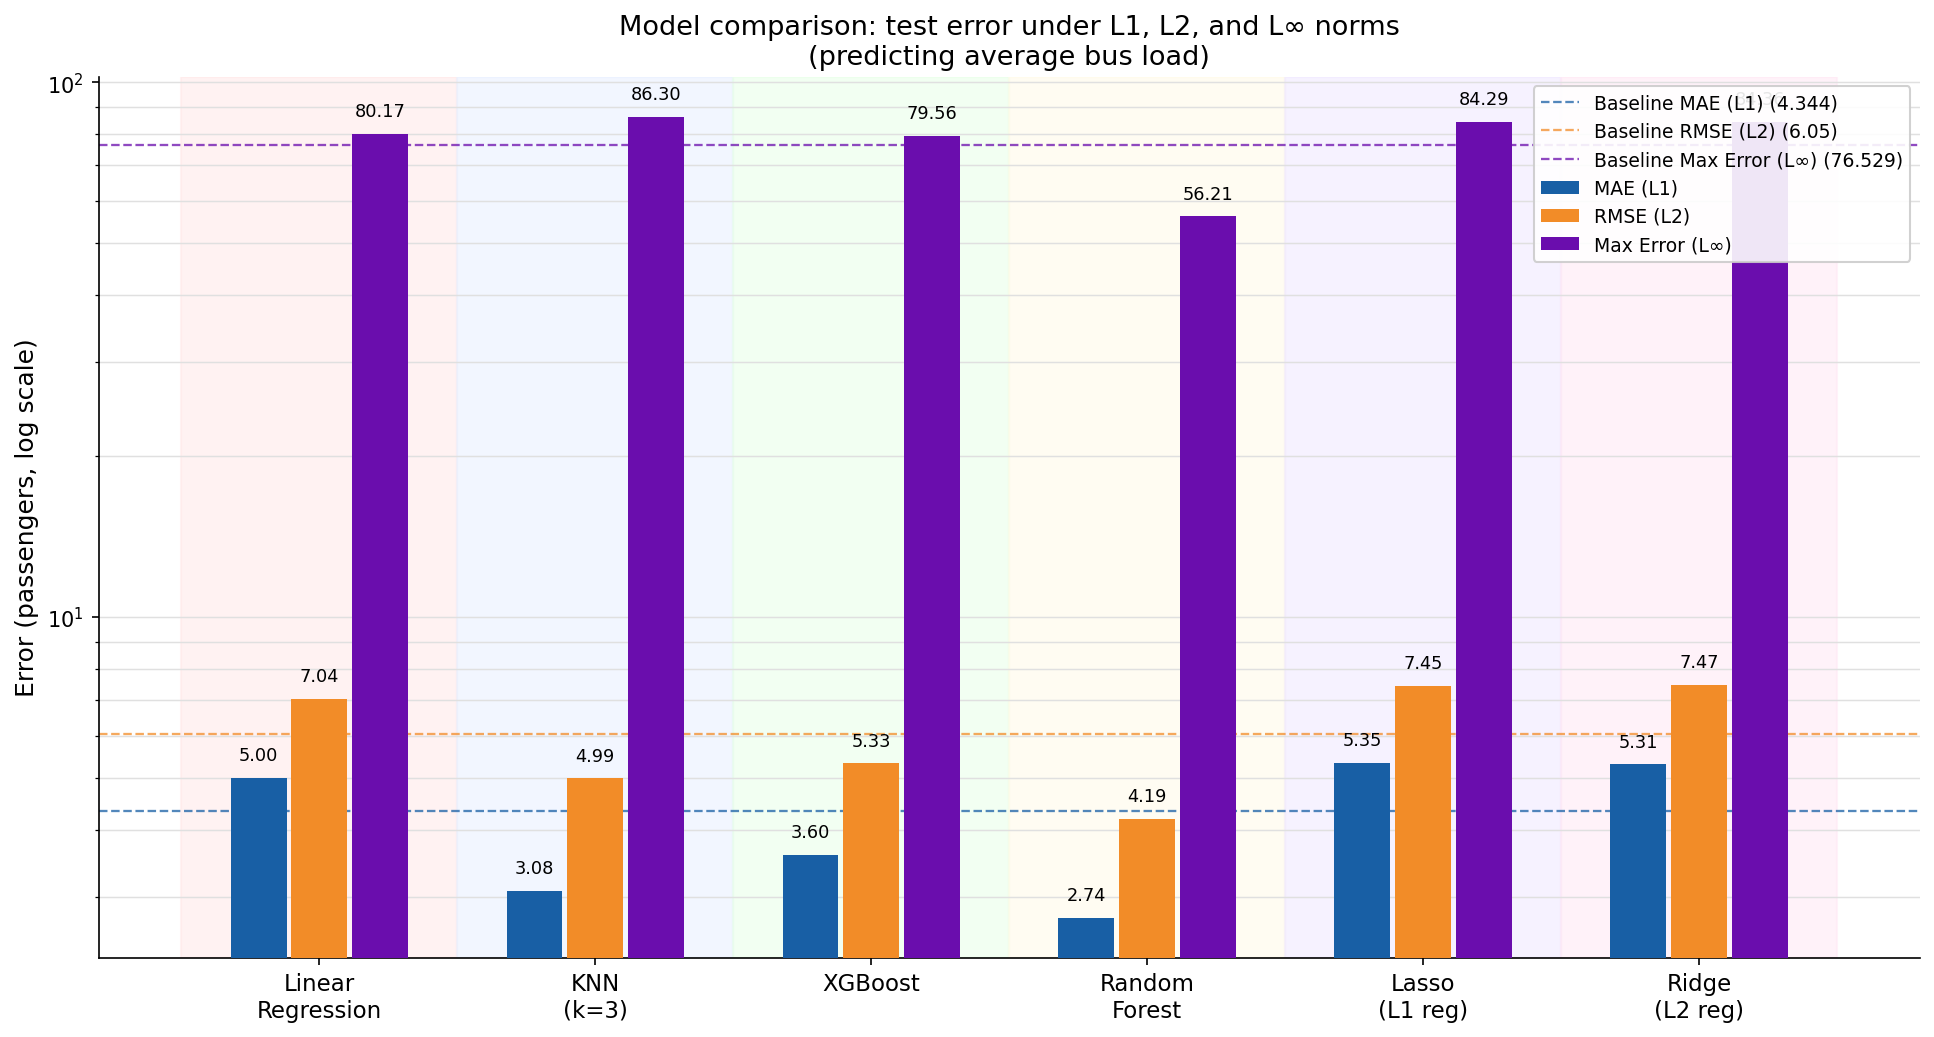
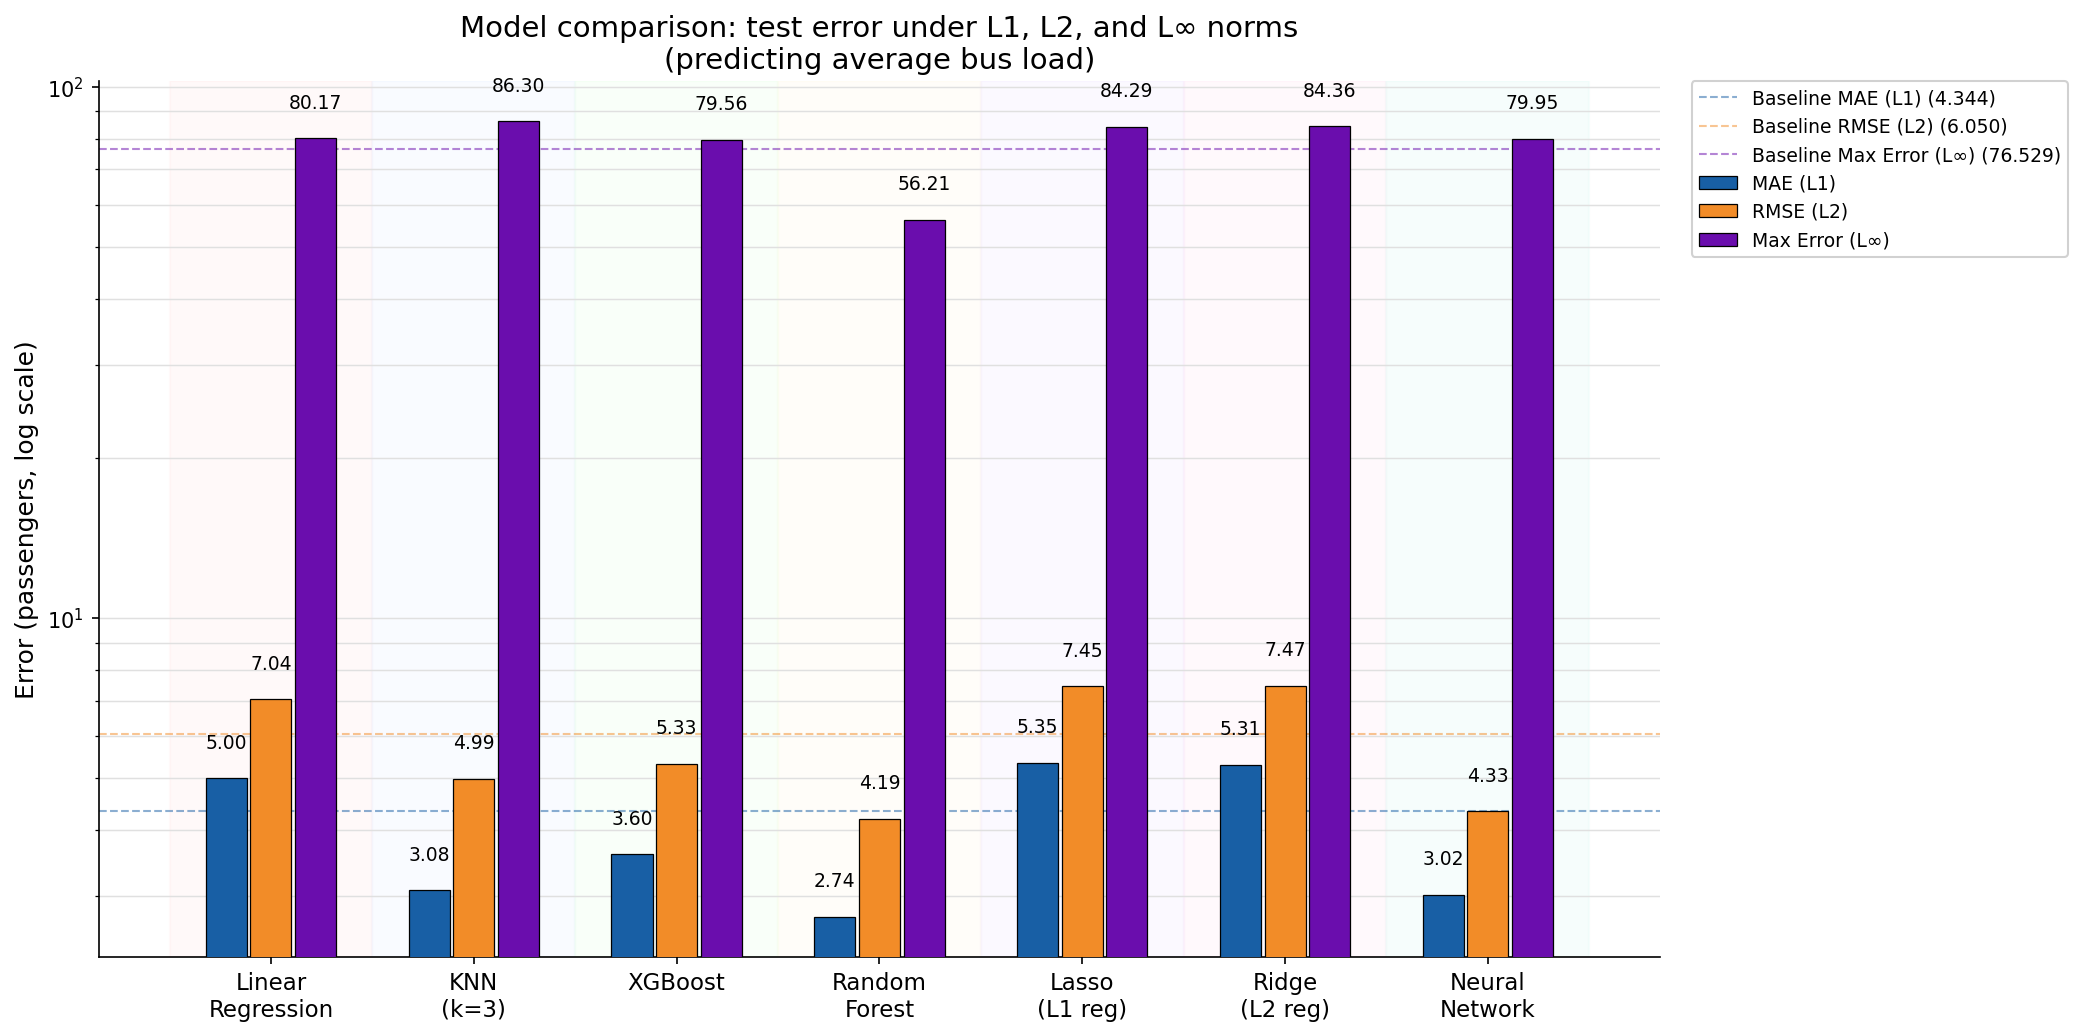
implement the neural network and update the model comparison diagram

diff --git a/src/model/neural_network.py b/src/model/neural_network.py
@@ -1,0 +1,183 @@
+import sqlite3
+import pandas as pd
+from pathlib import Path
+import numpy as np
+import matplotlib.pyplot as plt
+import tensorflow as tf
+from tensorflow import keras
+from sklearn.preprocessing import OneHotEncoder, StandardScaler
+from sklearn.compose import ColumnTransformer
+from sklearn.pipeline import make_pipeline
+from sklearn.metrics import mean_absolute_error, mean_squared_error
+
+def rmse(y_true, y_pred):
+    return np.sqrt(mean_squared_error(y_true, y_pred))
+
+project_root = Path(__file__).resolve().parent.parent.parent
+# print(project_root)
+db_path = project_root / "dataset" / "Ridership_v1.sqlite"
+# print(db_path)
+
+conn = sqlite3.connect(db_path)
+cursor = conn.cursor()
+cursor.execute("SELECT name FROM sqlite_master WHERE type='table';")
+print("Tables:", cursor.fetchall())
+
+df = pd.read_sql_query("SELECT * FROM MBTA_Ridership", conn)
+conn.close()
+
+print(f"Loaded {len(df)} rows")
+
+# Clean
+drop_cols = ["mode", "route_id", "route_variant", "day_type_id", "time_period_id", "ObjectId"]
+df = df.drop(columns=[c for c in drop_cols if c in df.columns])
+
+df = df.dropna(subset=["average_load"])
+df = df[df["average_offs"] >= 0]
+df["day_type_name"] = df["day_type_name"].astype(str).str.strip().str.title()
+
+# Keep season name (Spring/Fall/Summer/Winter) as a feature — more signal than year alone
+df["season_name"] = df["season"].str.extract(r"([A-Za-z]+)")[0].str.title()
+df["season_year"] = df["season"].str.extract(r"(\d{4})")[0]
+df = df.dropna(subset=["season_year", "season_name"])
+df["season_year"] = df["season_year"].astype(int)
+df = df.drop(columns=["season"])
+
+TIME_ORDER = [
+    "VERY_EARLY_MORNING", "EARLY_AM", "AM_PEAK", "MIDDAY_BASE",
+    "MIDDAY_SCHOOL", "PM_PEAK", "EVENING", "LATE_EVENING", "NIGHT", "OFF_PEAK"
+]
+time_map = {t: i for i, t in enumerate(TIME_ORDER)}
+df["time_period_encoded"] = df["time_period_name"].map(time_map)
+df = df.dropna(subset=["time_period_encoded"])
+df["time_period_encoded"] = df["time_period_encoded"].astype(int)
+
+print(f"Rows after cleaning: {len(df)}")
+
+TARGET = "average_load"
+FEATURES = [
+    "route_name", "stop_id", "stop_sequence", "direction_id",
+    "day_type_name", "time_period_encoded",
+    "season_name", "season_year", "num_trips",
+]
+
+train = df[df["season_year"] <= 2022]
+val   = df[df["season_year"] == 2023]
+test  = df[df["season_year"] == 2024]
+
+X_train, y_train = train[FEATURES], train[TARGET]
+X_val,   y_val   = val[FEATURES],   val[TARGET]
+X_test,  y_test  = test[FEATURES],  test[TARGET]
+
+print(f"Train: {len(X_train)}  Val: {len(X_val)}  Test: {len(X_test)}")
+
+# Baseline: mean load per route/time/day_type from training set
+baseline_lookup = (
+    train.groupby(["route_name", "time_period_encoded", "day_type_name"])[TARGET]
+    .mean()
+    .reset_index()
+    .rename(columns={TARGET: "baseline_pred"})
+)
+val_b = val[FEATURES + [TARGET]].merge(
+    baseline_lookup,
+    on=["route_name", "time_period_encoded", "day_type_name"],
+    how="left"
+)
+val_b["baseline_pred"] = val_b["baseline_pred"].fillna(y_train.mean())
+
+b_mae  = mean_absolute_error(y_val, val_b["baseline_pred"])
+b_rmse = rmse(y_val, val_b["baseline_pred"])
+print(f"\nBaseline  — Val  MAE: {b_mae:.3f}   RMSE: {b_rmse:.3f}")
+
+# Train Neural Network
+
+categorical_features = [
+    "route_name",
+    "direction_id",
+    "day_type_name",
+    "time_period_encoded",
+    "season_name",
+]
+
+numeric_features = [
+    "stop_sequence",
+    "season_year",
+    "num_trips",
+]
+
+preprocess = ColumnTransformer([
+    ("cat", OneHotEncoder(handle_unknown="ignore", sparse_output=False), categorical_features),
+    ("num", StandardScaler(), numeric_features),
+])
+
+X_train_p = preprocess.fit_transform(X_train)
+X_val_p = preprocess.transform(X_val)
+X_test_p = preprocess.transform(X_test)
+
+model = keras.Sequential([
+    keras.layers.Input(shape=(X_train_p.shape[1],)),
+    keras.layers.Dense(64, activation="relu"),
+    keras.layers.Dropout(0.2),
+    keras.layers.Dense(32, activation="relu"),
+    keras.layers.Dense(1)
+])
+
+model.compile(
+    optimizer=keras.optimizers.Adam(learning_rate=0.001),
+    loss="mse",
+    metrics=["mae"]
+)
+
+early_stop = keras.callbacks.EarlyStopping(
+    monitor="val_loss",
+    patience=5,
+    restore_best_weights=True
+)
+
+model.fit(
+    X_train_p,
+    y_train,
+    epochs=100,
+    batch_size=64,
+    validation_data=(X_val_p, y_val),
+    callbacks=[early_stop],
+    verbose=1
+)
+
+val_preds  = model.predict(X_val_p)
+test_preds = model.predict(X_test_p)
+
+test_preds = np.asarray(test_preds).ravel()
+val_preds = np.asarray(val_preds).ravel()
+y_test_arr = y_test.values.ravel()
+
+print(f"Baseline       — Val  MAE: {b_mae:.3f}   RMSE: {b_rmse:.3f}")
+print(f"Neural Network — Val  MAE: {mean_absolute_error(y_val, val_preds):.3f}   RMSE: {rmse(y_val, val_preds):.3f}")
+print(f"Neural Network — Test MAE: {mean_absolute_error(y_test, test_preds):.3f}   RMSE: {rmse(y_test, test_preds):.3f}")
+print("Done")
+
+max_err_nn = np.max(np.abs(y_test_arr - test_preds))
+print(f"Neural Network - Max Error: {max_err_nn:.3f}")
+
+print(f"{'='*50}")
+
+
+# Actual vs Predicted scatter plot (test set sample)
+sample = min(300, len(y_test))
+max_val = max(y_test.values[:sample].max(), test_preds[:sample].max())
+
+fig, ax = plt.subplots(figsize=(6, 6))
+ax.scatter(y_test.values[:sample], test_preds[:sample], alpha=0.3, s=10, color="#2e7d32")
+ax.plot([0, max_val], [0, max_val], color="crimson", linewidth=1, label="Perfect fit")
+ax.set_xlabel("Actual Average Load", fontsize=12)
+ax.set_ylabel("Predicted Average Load", fontsize=12)
+ax.set_title("Neural Network: Actual vs Predicted — 2024 Test Set", fontsize=13)
+ax.legend()
+ax.spines[["top", "right"]].set_visible(False)
+ax.grid(color="#e0e0e0", linewidth=0.7)
+
+plt.tight_layout()
+scatter_path = project_root / "diagram" / "model" / "nn_actual_vs_predicted.png"
+plt.savefig(scatter_path, dpi=150)
+plt.show()
+print(f"Saved: {scatter_path}")

diff --git a/src/model/comparison.py b/src/model/comparison.py
@@ -4,8 +4,6 @@ from pathlib import Path
 
 project_root = Path(__file__).resolve().parent.parent.parent
 
-# Absolute test metrics per model (predicting average_load on 2024 test set)
-# max_err = L-inf = single worst-case absolute error across the test set
 models = [
     "Linear\nRegression",
     "KNN\n(k=3)",
@@ -13,66 +11,115 @@ models = [
     "Random\nForest",
     "Lasso\n(L1 reg)",
     "Ridge\n(L2 reg)",
+    "Neural\nNetwork"
 ]
-mae     = [5.003, 3.077, 3.596, 2.741, 5.348, 5.306]
-rmse    = [7.045, 4.994, 5.331, 4.193, 7.452, 7.472]
-max_err = [80.173, 86.300, 79.557, 56.209, 84.292, 84.355]
 
-# Baseline: mean-lookup (route × time × day_type from training set)
+mae     = [5.003, 3.077, 3.596, 2.741, 5.348, 5.306, 3.020]
+rmse    = [7.045, 4.994, 5.331, 4.193, 7.452, 7.472, 4.331]
+max_err = [80.173, 86.300, 79.557, 56.209, 84.292, 84.355, 79.951]
+
 baseline_mae    = 4.344
 baseline_rmse   = 6.050
 baseline_maxerr = 76.529
 
-# Style — one background colour per model, three bar colours for the three metrics
-bg_colors  = ["#FFE8E8", "#E8F0FF", "#E8FFE8", "#FFFBE8", "#F0E8FF", "#FFE8F5"]
-bar_colors = {"MAE (L1)": "#185FA5", "RMSE (L2)": "#F28C28", "Max Error (L∞)": "#6A0DAD"}
+bg_colors = [
+    "#FFE8E8",
+    "#E8F0FF",
+    "#E8FFE8",
+    "#FFFBE8",
+    "#F0E8FF",
+    "#FFE8F5",
+    "#DFFAF5",
+]
+
+bar_colors = {
+    "MAE (L1)": "#185FA5",
+    "RMSE (L2)": "#F28C28",
+    "Max Error (L∞)": "#6A0DAD",
+}
 
 metrics = [
-    ("MAE (L1)",       mae,     baseline_mae),
-    ("RMSE (L2)",      rmse,    baseline_rmse),
+    ("MAE (L1)", mae, baseline_mae),
+    ("RMSE (L2)", rmse, baseline_rmse),
     ("Max Error (L∞)", max_err, baseline_maxerr),
 ]
 
-n      = len(models)
-x      = np.arange(n)
-width  = 0.22
+n = len(models)
+x = np.arange(n)
+width = 0.22
 offsets = [-width, 0, width]
 
-fig, ax = plt.subplots(figsize=(13, 7))
+fig, ax = plt.subplots(figsize=(14, 7))
 
-# Coloured background panel per model group
-for i, bg in enumerate(bg_colors[:n]):
-    ax.axvspan(i - 0.5, i + 0.5, color=bg, alpha=0.55, zorder=0)
+# Background panels
+for i, bg in enumerate(bg_colors):
+    ax.axvspan(i - 0.5, i + 0.5, color=bg, alpha=0.25, zorder=0)
 
-# Grouped bars: three bars per model (MAE / RMSE / Max Error)
+# Bars
 for (label, data, baseline), offset in zip(metrics, offsets):
     color = bar_colors[label]
-    vals  = [v if v is not None else 0.0 for v in data]
-    bars  = ax.bar(x + offset, vals, width * 0.92, label=label, color=color, zorder=3)
 
-    for bar, orig in zip(bars, data):
-        if orig is None or orig == 0.0:
-            continue
-        # on log scale, offset the label multiplicatively so it sits just above the bar
-        ax.text(bar.get_x() + bar.get_width() / 2, bar.get_height() * 1.06,
-                f"{orig:.2f}", ha="center", va="bottom", fontsize=8.5, zorder=4)
+    bars = ax.bar(
+        x + offset,
+        data,
+        width * 0.92,
+        label=label,
+        color=color,
+        edgecolor="black",
+        linewidth=0.6,
+        zorder=3,
+    )
 
-    if baseline is not None:
-        ax.axhline(baseline, color=color, linestyle="--", linewidth=1.1,
-                   alpha=0.75, label=f"Baseline {label} ({baseline})", zorder=2)
+    for bar, value in zip(bars, data):
+        ax.text(
+            bar.get_x() + bar.get_width() / 2,
+            bar.get_height() * 1.12,
+            f"{value:.2f}",
+            ha="center",
+            va="bottom",
+            fontsize=9,
+            zorder=4,
+        )
+
+    ax.axhline(
+        baseline,
+        color=color,
+        linestyle="--",
+        linewidth=1,
+        alpha=0.5,
+        label=f"Baseline {label} ({baseline:.3f})",
+        zorder=2,
+    )
 
 ax.set_yscale("log")
 ax.set_ylabel("Error (passengers, log scale)", fontsize=12)
-ax.set_title("Model comparison: test error under L1, L2, and L∞ norms\n(predicting average bus load)",
-             fontsize=13)
+ax.set_title(
+    "Model comparison: test error under L1, L2, and L∞ norms\n"
+    "(predicting average bus load)",
+    fontsize=14,
+)
+
 ax.set_xticks(x)
 ax.set_xticklabels(models, fontsize=11)
-ax.legend(fontsize=9, loc="upper right", framealpha=0.9)
-ax.spines[["top", "right"]].set_visible(False)
+
 ax.grid(axis="y", color="#e0e0e0", linewidth=0.7, zorder=1, which="both")
+ax.spines[["top", "right"]].set_visible(False)
+
+ax.legend(
+    bbox_to_anchor=(1.02, 1),
+    loc="upper left",
+    borderaxespad=0,
+    fontsize=9,
+    framealpha=0.9,
+)
 
 plt.tight_layout()
-out_path = project_root / "diagram" / "model" / "model_comparison.png"
+
+out_dir = project_root / "diagram" / "model"
+out_dir.mkdir(parents=True, exist_ok=True)
+
+out_path = out_dir / "model_comparison.png"
 plt.savefig(out_path, dpi=150, bbox_inches="tight")
 plt.show()
+
 print(f"Saved: {out_path}")